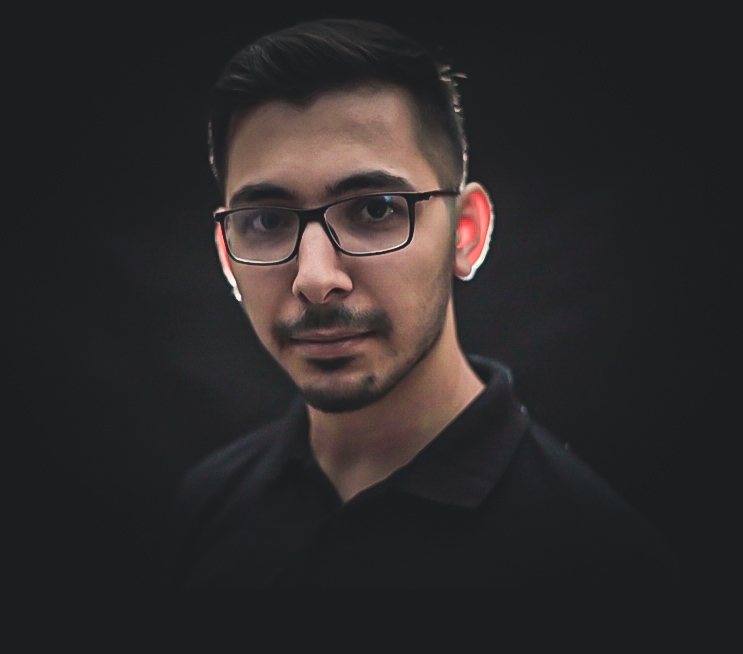
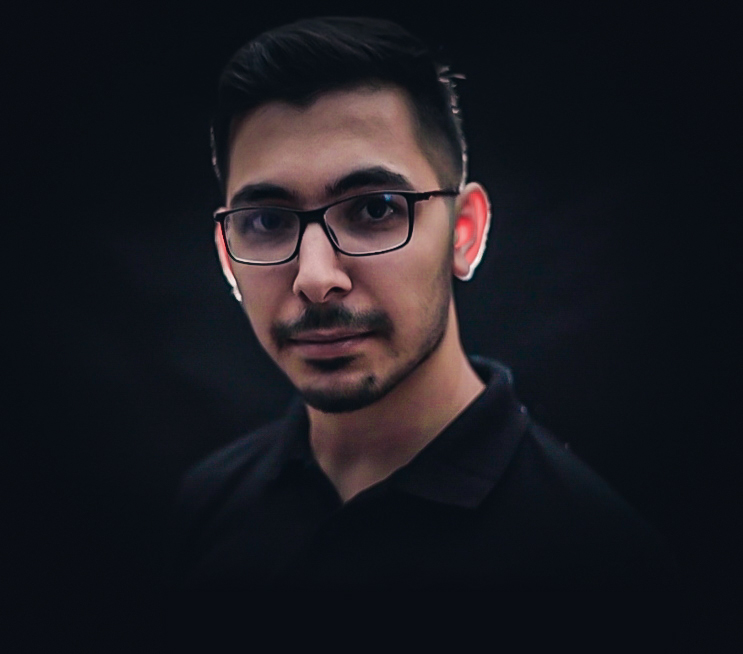
+++

diff --git a/components/Footer.tsx b/components/Footer.tsx
@@ -31,7 +31,7 @@ export default function Layout() {
 
               <div className="py-3">
                 <span className="text-light">My Instagram: </span>
-                <strong className="fs-3"><a href="https://www.instagram.com/react.er/" target="_blank">react.er</a></strong>
+                <strong className="fs-3"><a href="https://www.instagram.com/sina.wic/" target="_blank">sina.wic</a></strong>
               </div>
 
               <div className="py-3">

diff --git a/public/css/styles.css b/public/css/styles.css
@@ -137,7 +137,7 @@ img {
   overflow: hidden;
   display: inline-block;
   border: 4px solid #282e34;
-  background: #1c1d1f;
+  background: #090e14;
   transform: scaleX(-1)
 }
 
